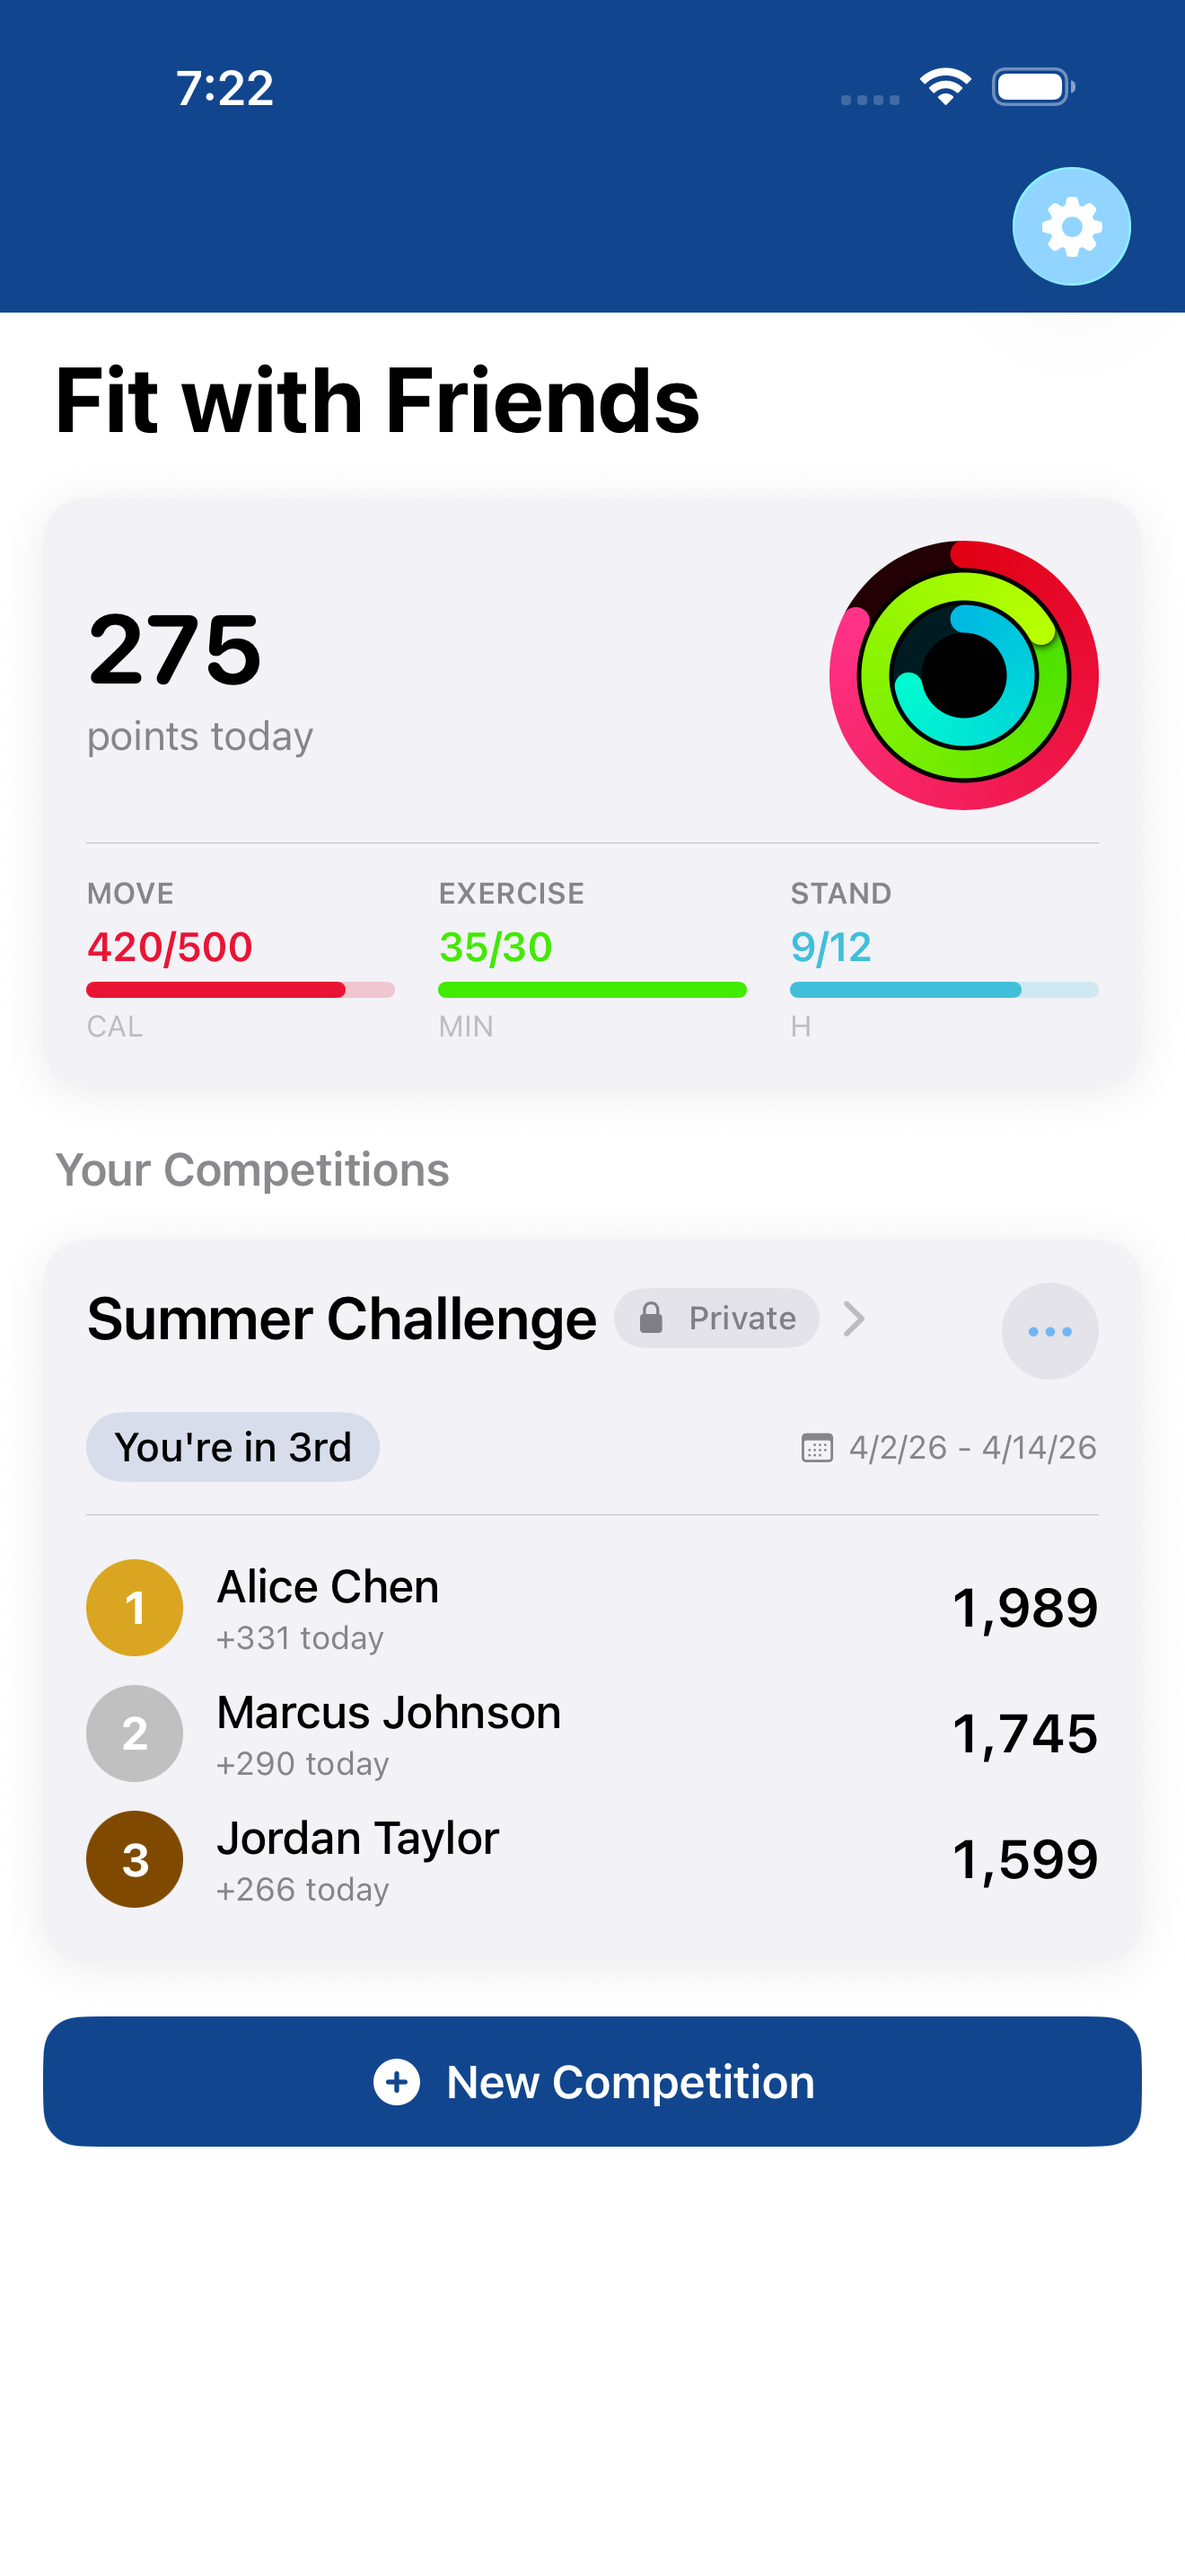
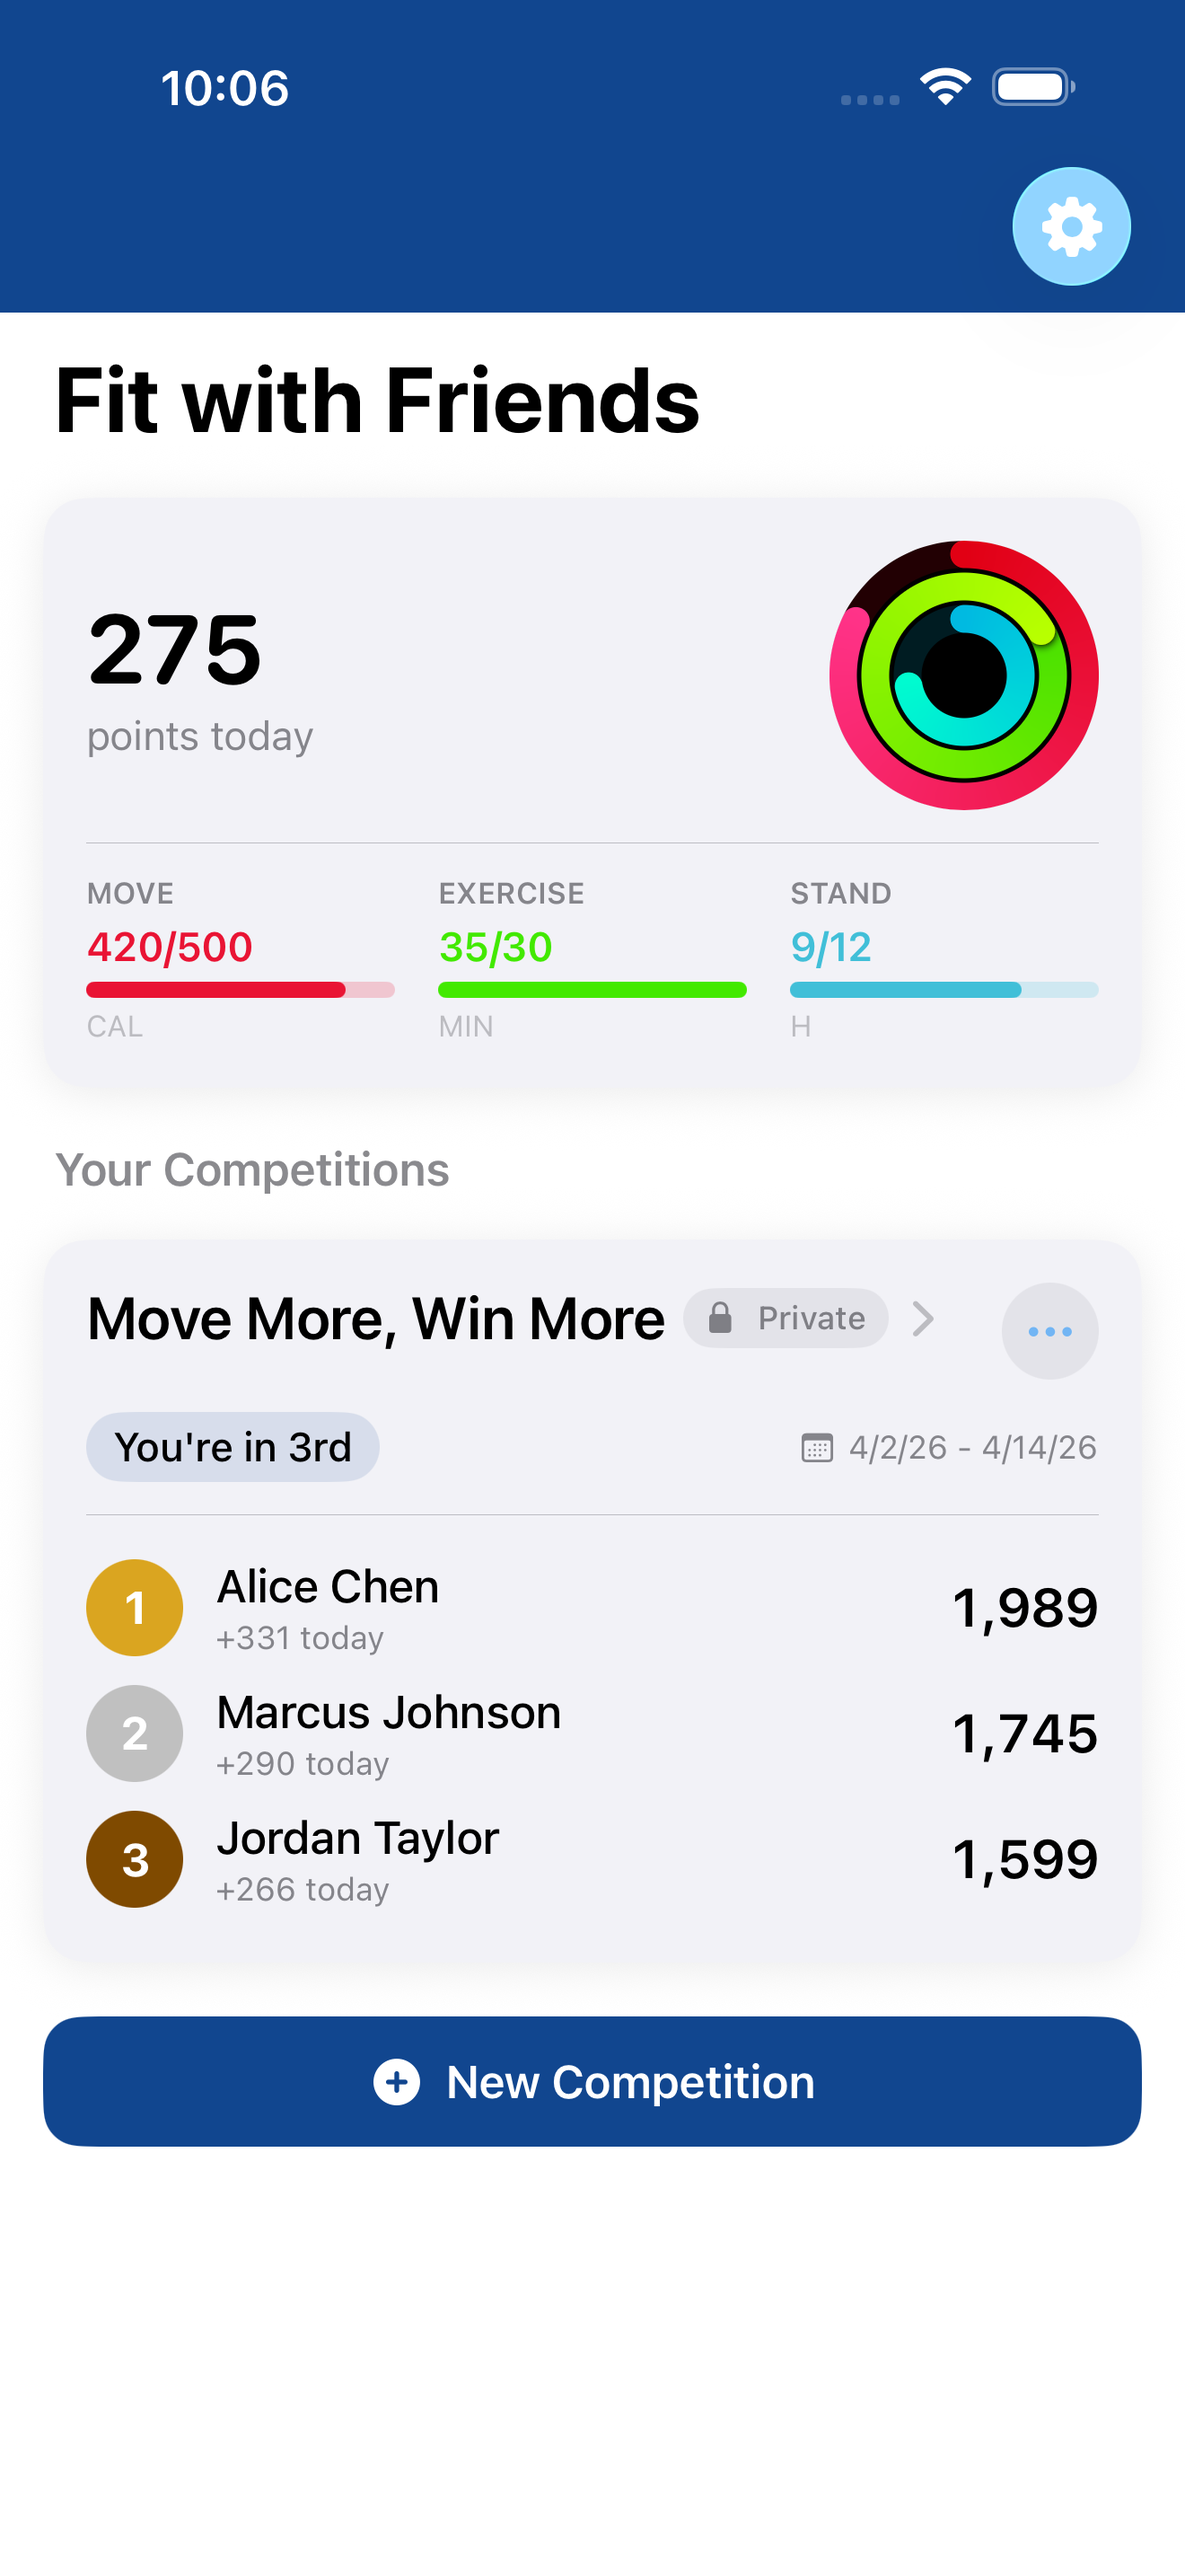
Update screenshots

Changed region(s): [[0.0621, 0.4965, 0.5591, 0.5275], [0.5902, 0.4965, 0.7455, 0.5275], [0.1553, 0.031, 0.2485, 0.0621]]

diff --git a/Clients/iOS/FitWithFriends/UITests/ScreenshotTests.swift b/Clients/iOS/FitWithFriends/UITests/ScreenshotTests.swift
@@ -23,7 +23,7 @@ final class ScreenshotTests: FWFUITestBase {
 
     /// 02 — Home screen with an active competition and a full leaderboard
     func test02_HomeScreen() throws {
-        let competitionId = try createCompetitionForScreenshots(name: "Summer Challenge")
+        let competitionId = try createCompetitionForScreenshots(name: "Move More, Win More")
         try seedCompetitionWithUsers(competitionId: competitionId)
         try seedSelfActivityData(daysAgo: 5, caloriesBurned: 340, caloriesGoal: 400,
                                   exerciseTime: 27, exerciseTimeGoal: 30,
@@ -32,14 +32,14 @@ final class ScreenshotTests: FWFUITestBase {
         launchApp(loggedIn: true)
 
         XCTAssertTrue(app.staticTexts["Fit with Friends"].waitForExistence(timeout: 10))
-        XCTAssertTrue(app.staticTexts["Summer Challenge"].waitForExistence(timeout: 10))
+        XCTAssertTrue(app.staticTexts["Move More, Win More"].waitForExistence(timeout: 10))
 
         takeScreenshot(name: "02_HomeScreen")
     }
 
     /// 03 — Competition detail view with a full leaderboard
     func test03_CompetitionDetail() throws {
-        let competitionId = try createCompetitionForScreenshots(name: "Summer Challenge")
+        let competitionId = try createCompetitionForScreenshots(name: "Move More, Win More")
         try seedCompetitionWithUsers(competitionId: competitionId)
         try seedSelfActivityData(daysAgo: 5, caloriesBurned: 340, caloriesGoal: 400,
                                   exerciseTime: 27, exerciseTimeGoal: 30,
@@ -48,7 +48,7 @@ final class ScreenshotTests: FWFUITestBase {
         launchApp(loggedIn: true)
 
         XCTAssertTrue(app.staticTexts["Fit with Friends"].waitForExistence(timeout: 10))
-        let competitionText = app.staticTexts["Summer Challenge"]
+        let competitionText = app.staticTexts["Move More, Win More"]
         XCTAssertTrue(competitionText.waitForExistence(timeout: 10))
         competitionText.tap()
 
@@ -72,7 +72,7 @@ final class ScreenshotTests: FWFUITestBase {
         let nameField = app.textFields["e.g., January Challenge"]
         XCTAssertTrue(nameField.waitForExistence(timeout: 3))
         nameField.tap()
-        nameField.typeText("Summer Fitness Challenge")
+        nameField.typeText("Move More, Win More")
 
         takeScreenshot(name: "04_CreateCompetition")
     }
